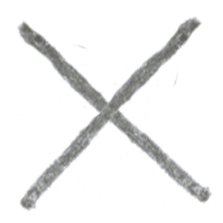
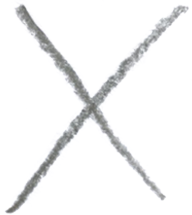
change close button, test history state

Changed region(s): [[0.0312, 0.0, 1.0, 1.0]]

diff --git a/michael/js/index.js b/michael/js/index.js
@@ -1,3 +1,53 @@
+$(function() {
+  String.prototype.decodeHTML = function() {
+    return $("<div>", {html: "" + this}).html();
+  };
+
+  var $main = $("main"),
+  
+  init = function() {
+        $main.fadeIn(1000);
+        console.log("fade in!");
+  },
+  
+  ajaxLoad = function(html) {
+    document.title = html
+      .match(/<title>(.*?)<\/title>/)[1]
+      .trim()
+      .decodeHTML();
+
+    init();
+  },
+  
+  loadPage = function(href) {
+    $main.load(href + " main>*", ajaxLoad);
+  };
+  
+  init();
+  
+  $(window).on("popstate", function(e) {
+    if (e.originalEvent.state !== null) {
+      loadPage(location.href);
+    }
+  });
+
+  $(document).on("click", "a, area", function() {
+    var href = $(this).attr("href");
+
+    if (href.indexOf(document.domain) > -1
+      || href.indexOf(':') === -1)
+    {
+      history.pushState({}, '', href);
+      loadPage(href);
+      return false;
+    }
+  });
+});
+
+
+
+/// og 
+
 
 var currentSection, homeSection; 
 var mouseWheelTransition = false; 

diff --git a/michael/index.html b/michael/index.html
@@ -55,8 +55,8 @@
       <div class="down"><a href="#" class="arrow" onclick="scrollToNext()"><img src="imgs/arrow1-down.png" /></a></div>
   </nav>
 
-
-  <div id="grids">
+  <main>
+  <div id="main">
 
     <div class="panel a photogrid" id="grid1">
 
@@ -175,7 +175,7 @@
       <div class="photo">
         <a href="stories/1a.html"><img src="imgs/3ihome.jpg" alt="" /></a>
       </div>
-      
+
     </div>  
 
     <div class="panel d photogrid" id="grid4">
@@ -220,7 +220,7 @@
     </div>  
 
   </div> <!-- / grid wrapper -->
-
+</main>
 
   <footer>
     <ul>

diff --git a/michael/stories/1a.html b/michael/stories/1a.html
@@ -53,7 +53,7 @@
 </nav>
 
 
-
+<main>
 <div class="post">
 
   <div class="close"><a href="../index.html#grid1"><img src="../imgs/close.png" /></a></div>
@@ -73,7 +73,7 @@
   
 </div>
 
-
+</main>
 
 
 <footer>
